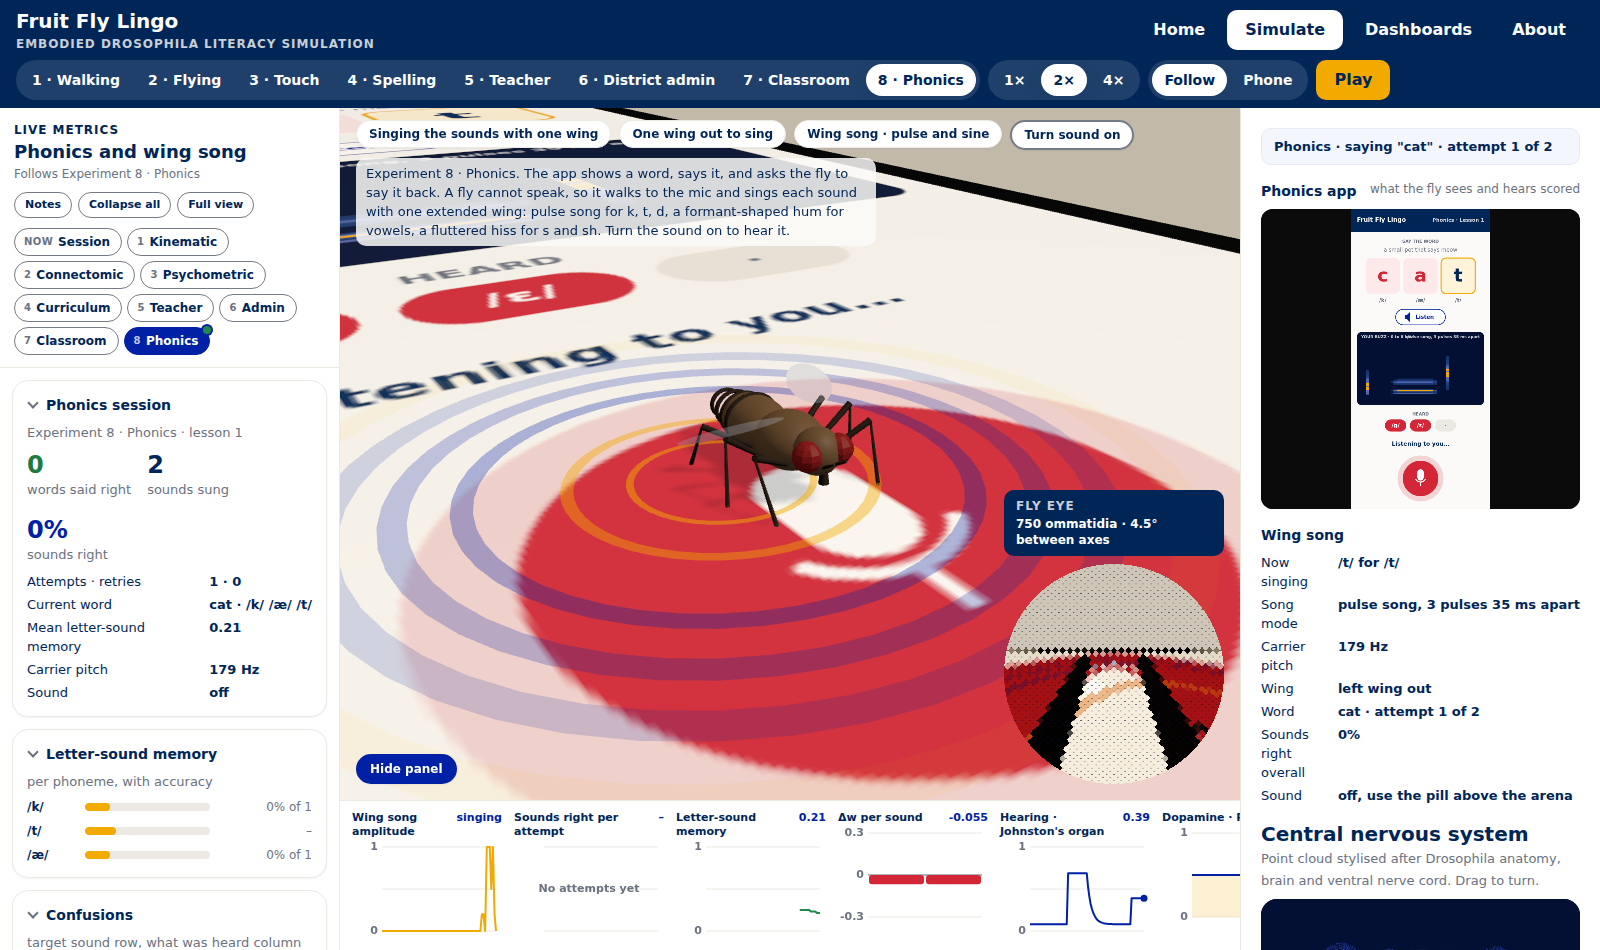
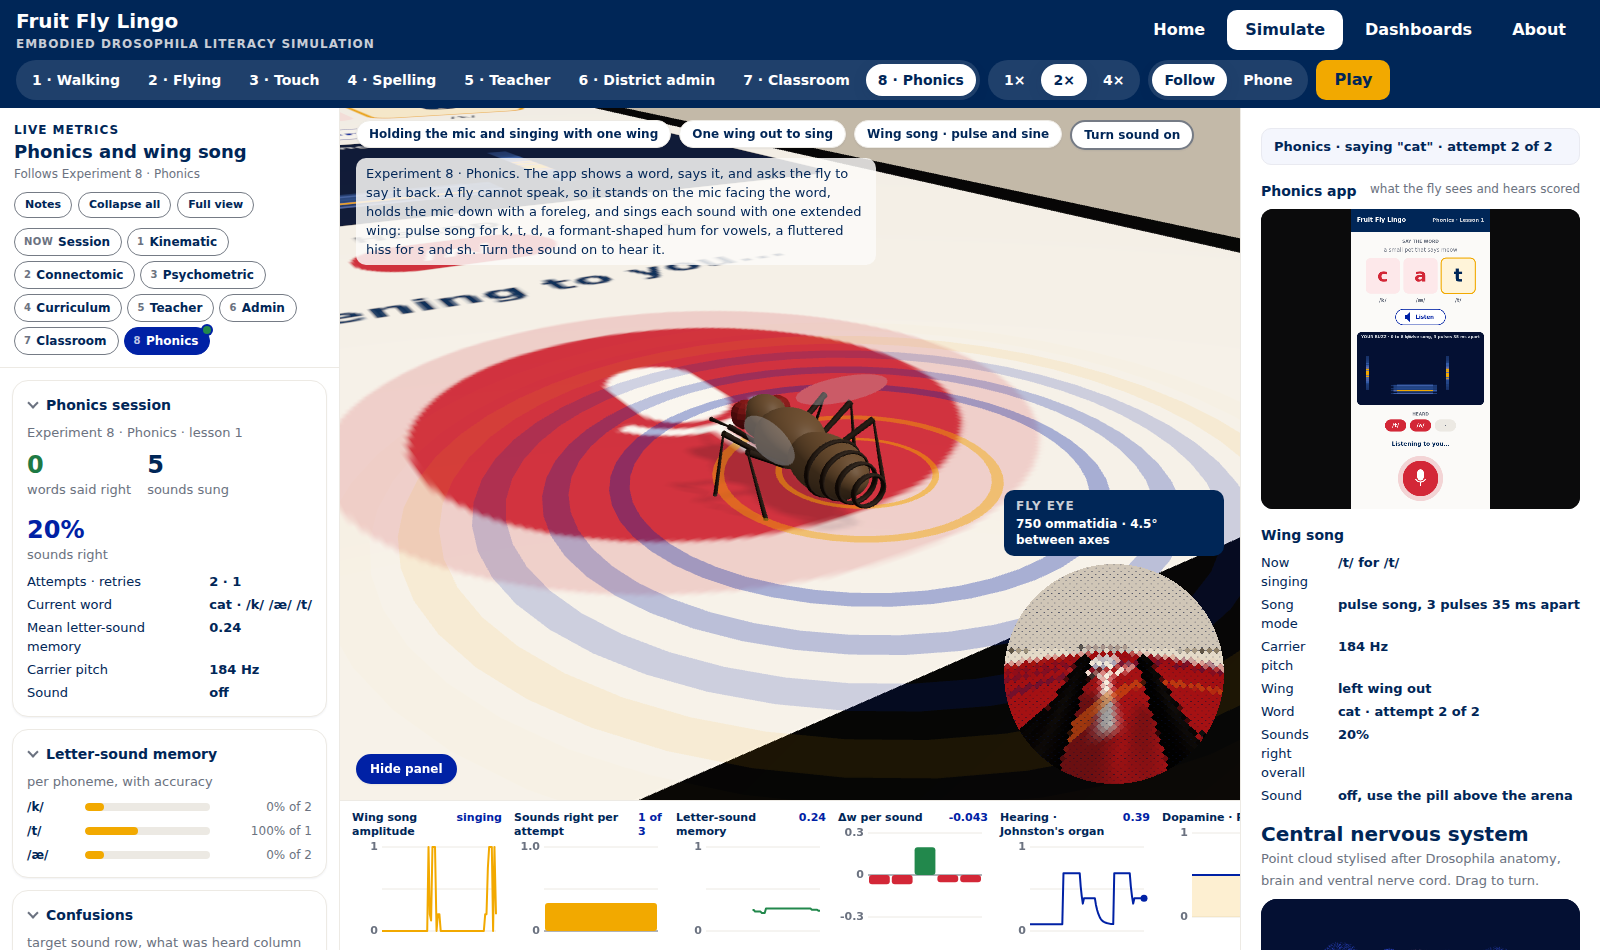
Phonics: the fly faces the word while it holds the mic
The fly now stands on the mic button facing up the screen, so the word and
its sounds stay in view. It presses the mic with the foreleg in front of it
and holds it down while it sings, like push-to-talk, and its head follows
the letter being sung. It stays on the mic between words instead of walking
back and forth.

diff --git a/index.html b/index.html
@@ -832,7 +832,7 @@ pre.mermaid svg{max-width:none;height:auto}
 
       <h3 class="sec">Phonics</h3>
       <div class="shots">
-        <figure><img loading="lazy" src="docs/screenshots/exp8-phonics.png" alt="Experiment 8: the fly at the mic of a phonics app, one wing extended as it sings"><figcaption><strong>8 · Phonics.</strong> The app says the word; the fly walks to the mic, taps it, and sings each sound with one extended wing while ripples spread from the wing and the spectrogram fills.</figcaption></figure>
+        <figure><img loading="lazy" src="docs/screenshots/exp8-phonics.png" alt="Experiment 8: the fly at the mic of a phonics app, one wing extended as it sings"><figcaption><strong>8 · Phonics.</strong> The app says the word; the fly stands on the mic facing the word, holds it down with a foreleg, and sings each sound with one extended wing while ripples spread from the wing and the spectrogram fills.</figcaption></figure>
         <figure><img loading="lazy" src="docs/screenshots/exp8-screen.png" alt="Experiment 8 phonics app: letter boxes with their sounds, the Listen button, a spectrogram of the buzz, the heard row and the mic button"><figcaption><strong>8 · The phonics app.</strong> Letter boxes with the sound each spells, the Listen button, a spectrogram of the fly's buzz, what the recogniser heard, and the mic.</figcaption></figure>
         <figure><img loading="lazy" src="docs/screenshots/dashboards-8.png" alt="Dashboard 8: phonics session counters, letter-sound memory, confusion matrix"><figcaption><strong>Dashboard 8 · Phonics and wing song.</strong> Words said right, sounds right, a letter-sound memory per phoneme, a confusion matrix of target against heard sounds, and the last attempt's spectrogram.</figcaption></figure>
       </div>
@@ -958,7 +958,7 @@ const EXP = {
   5: { name: 'Teacher', note: 'Experiment 5 · Teacher. A fly-sized laptop with a gradebook of the flies from Experiments 1 to 4. The screen is not touchable: the teacher stays on the trackpad and steers the cursor with one foreleg, presses the pad to click, and steps over to tap keys.', phys: 'Fly-sized laptop · trackpad only, no touch', phoneScale: 0.07, layout: 'grid', jitter: 0, camOffset: [-6, 5, 8.5], laptop: true },
   6: { name: 'District admin', note: 'Experiment 6 · District admin. The admin fly watches nine students on a 3 × 3 grid of webcam sessions. A vision overlay boxes each fly, its forelegs and its gaze; FlyAI flags suspected cheating and the admin steers the cursor to the tile and sends a check-in.', phys: 'Fly-sized laptop · trackpad only · vision overlay', phoneScale: 0.07, layout: 'grid', jitter: 0, camOffset: [-6, 5, 8.5], laptop: true },
   7: { name: 'Classroom', note: 'Experiment 7 · Classroom. Twenty-four students, twelve female and twelve male, at six round tables with a fly-sized tablet each, in mating season. Every fly has to finish twelve items. Rings show what each fly is doing; the vision overlay boxes every fly, its forelegs and its gaze. Click a fly to follow it and see its brain.', phys: '24 flies · 6 tables', phoneScale: 1, layout: 'grid', jitter: 0, camOffset: [-12, 10, 17], classroom: true },
-  8: { name: 'Phonics', note: 'Experiment 8 · Phonics. The app shows a word, says it, and asks the fly to say it back. A fly cannot speak, so it walks to the mic and sings each sound with one extended wing: pulse song for k, t, d, a formant-shaped hum for vowels, a fluttered hiss for s and sh. Turn the sound on to hear it.', phys: 'Wing song · pulse and sine', phoneScale: 1, layout: 'grid', jitter: 0, camOffset: [-13, 11, 20] },
+  8: { name: 'Phonics', note: 'Experiment 8 · Phonics. The app shows a word, says it, and asks the fly to say it back. A fly cannot speak, so it stands on the mic facing the word, holds the mic down with a foreleg, and sings each sound with one extended wing: pulse song for k, t, d, a formant-shaped hum for vowels, a fluttered hiss for s and sh. Turn the sound on to hear it.', phys: 'Wing song · pulse and sine', phoneScale: 1, layout: 'grid', jitter: 0, camOffset: [-13, 11, 20] },
 };
 let experiment = 1;
 
@@ -1309,7 +1309,7 @@ function redrawScreen(now) { drawScreen(now); screenTex.needsUpdate = true; }
 const agent = { phase: 'look', t: 0, target: null, standPos: null, tapLeg: null, tileIdx: -1, wordDone: false, hover: null, from: null, swipe: null, targetScroll: 0 };
 const PHASE_TEXT = { look: 'Looking at the screen', walk: 'Walking to a tile', tap: 'Pressing the glass', react: 'Reading the outcome', celebrate: 'Word complete',
   takeoff: 'Taking off', hover: 'Hovering, reading the meaning', dive: 'Diving to the answer', land: 'Landing', scroll: 'Swiping the answers into reach',
-  p_look: 'Reading the word', p_listen: 'Listening to the app', p_walk: 'Walking to the mic', p_tap: 'Tapping the mic', p_buzz: 'Singing the sounds with one wing', p_react: 'Hearing the score', p_celebrate: 'Word said right', p_back: 'Walking back to read',
+  p_look: 'Reading the word', p_listen: 'Listening to the app', p_walk: 'Settling on the mic', p_tap: 'Pressing the mic', p_buzz: 'Holding the mic and singing with one wing', p_react: 'Hearing the score', p_celebrate: 'Word said right', p_back: 'Settling on the mic',
   t_read: 'Reading the screen', t_fly: 'Flying', t_walk: 'Walking', t_arm: 'Steering the cursor with a foreleg', t_press: 'Clicking', t_dip: 'Pressing a key', t_done: 'All students graded', s_celebrate: 'Word spelled', a_watch: 'Watching the nine sessions' };
 function chooseTile() {
   const needed = cur().parts[game.placed];
@@ -1517,7 +1517,7 @@ function animateFly(dt) {
   const st = flyState;
   fly.position.copy(st.pos); fly.rotation.y = st.yaw; fly.updateMatrixWorld(true);
   head.rotation.y = st.headYaw;
-  const busyLeg = (agent.phase === 'tap' || agent.phase === 't_press' || agent.phase === 'p_tap') ? agent.tapLeg : ((agent.phase === 'scroll' && agent.swipe) || agent.phase === 't_arm' || ((experiment === 5 || experiment === 6) && !st.walking && !st.airborne && agent.phase !== 't_walk')) ? legs[1] : null;
+  const busyLeg = (agent.phase === 'tap' || agent.phase === 't_press' || agent.phase === 'p_tap' || agent.phase === 'p_buzz') ? agent.tapLeg : ((agent.phase === 'scroll' && agent.swipe) || agent.phase === 't_arm' || ((experiment === 5 || experiment === 6) && !st.walking && !st.airborne && agent.phase !== 't_walk')) ? legs[1] : null;
   let stepping = legs.filter(L => L.step).length;
   legs.forEach(L => {
     if (L === busyLeg) return;
@@ -2779,7 +2779,7 @@ const ripples = Array.from({ length: 8 }, () => { const m = new THREE.Mesh(new T
 function spawnRipple(kind) { const r = ripples.find(x => x.t >= 1); if (!r) return; r.t = 0; r.m.material.color.setHex(RING_KIND[kind]); r.m.visible = true; const p = fly.localToWorld(new THREE.Vector3(flyState.songSide * 1.6, 0, -0.8)); r.m.position.set(p.x, screenTopY() + 0.06, p.z); }
 function stepRipples(dt) { ripples.forEach(r => { if (r.t >= 1) { r.m.visible = false; return; } r.t = Math.min(1, r.t + dt / 0.9); const s = 1.5 + 12 * r.t; r.m.scale.set(s, s, s); r.m.material.opacity = 0.55 * (1 - r.t); }); }
 // ---------- the lesson ----------
-const P_READ = [195, 650], P_STAND = [195, 736], P_MIC = [195, 758];
+const P_READ = [195, 792], P_STAND = P_READ, P_MIC = [195, 756]; // the fly stands on the mic facing up the screen, so the word stays in view
 function phonicsStart() {
   const st = flyState; st.pos.copy(pxToWorld(...P_READ)); st.pos.y = SCREEN_Y; st.yaw = Math.PI; st.songExt = 0; st.songAmp = 0; plantFeet();
   phon.stage = 'read'; phon.plan = []; phon.heard = []; phon.cur = -1; game.feedback = `The fly reads "${phon.word.word}" and listens to the app say it.`; setPhase('p_look'); redrawScreen(performance.now()); renderTrial();
@@ -2817,7 +2817,7 @@ function stepPhonics(dt, now) {
     case 'p_look': st.headYaw = Math.sin(agent.t * 9) * 0.22; pulse(0, 0.9); pulse(1, 0.9); pulse(2, 0.5);
       if (agent.t > 1.3) { st.headYaw = 0; P.stage = 'listen'; speakModel(P.word.word); setPhase('p_listen'); } break;
     case 'p_listen': pulse(6, 0.9); pulse(7, 0.9); pulse(10, 0.4); redraw();
-      if (agent.t > 1.4) { P.stage = 'go'; agent.goal = pxToWorld(...P_STAND); agent.goalYaw = 0; setPhase('p_walk'); redrawScreen(now); } break;
+      if (agent.t > 1.4) { P.stage = 'go'; agent.goal = pxToWorld(...P_STAND); agent.goalYaw = Math.PI; setPhase('p_walk'); redrawScreen(now); } break;
     case 'p_walk': case 'p_back':
       if (walkToward(agent.goal, agent.goalYaw, dt)) {
         if (agent.phase === 'p_back') { phonicsStart(); break; }
@@ -2825,20 +2825,19 @@ function stepPhonics(dt, now) {
       } break;
     case 'p_tap': { const L = agent.tapLeg, T = agent.t, gy = agent.target.y; pulse(12, 0.95); pulse(11, 0.7);
       if (T < 0.28) { const k = T / 0.28; L.foot.lerpVectors(agent.tapFrom, agent.target, k); L.foot.y = gy + Math.sin(k * Math.PI) * 0.9; }
-      else if (T < 0.45) { L.foot.copy(agent.target); if (!agent.tapped) { agent.tapped = true; startAttempt(); st.songSide = Math.random() < 0.5 ? 1 : -1; redrawScreen(now); } }
-      else if (T < 0.75) { const k = (T - 0.45) / 0.3; L.foot.lerpVectors(agent.target, restWorld(L), k); L.foot.y = Math.max(gy, L.groundY) + Math.sin(k * Math.PI) * 0.7; }
-      else { L.foot.copy(restWorld(L)); setPhase('p_buzz'); }
+      else { L.foot.copy(agent.target); agent.tapped = true; startAttempt(); st.songSide = L === legs[0] ? 1 : -1; redrawScreen(now); setPhase('p_buzz'); } // press and hold, like push-to-talk
       break; }
     case 'p_buzz': {
       let acc = agent.t, i = 0; while (i < P.plan.length && acc > P.plan[i].dur + 0.07) { acc -= P.plan[i].dur + 0.07; i++; }
       if (i >= P.plan.length) { finishAttempt(); redrawScreen(now); renderTrial(); setPhase('p_react'); break; }
       if (i !== P.cur) { if (P.cur >= 0) resolveSound(P.cur); P.cur = i; buzzSound(P.plan[i].q, P.plan[i].dur, P.f0); renderTrial(); }
       const s = P.plan[i], gap = acc > s.dur, kind = PH[s.q].kind;
+      st.headYaw += ((P.plan.length > 1 ? (i / (P.plan.length - 1) - 0.5) * -0.5 : 0) - st.headYaw) * Math.min(1, dt * 6); // eyes follow the letter being sung
       st.songAmp = gap ? 0 : kind === 'stop' ? ((acc * 1000) % 35 < 12 && acc < 0.105 ? 1 : 0.2) : Math.min(1, acc / 0.04, (s.dur - acc) / 0.05);
       { const total = P.plan.reduce((a, q) => a + q.dur + 0.07, 0), x = Math.min(240, Math.round(agent.t / total * 240)); if (x > P.specX) { paintSpectrum(spectrumOf(gap ? null : s.q, acc, st.songAmp, P.f0), P.specX, x); P.specX = x; } }
       P.ringAcc += dt; if (!gap && P.ringAcc > 0.12) { P.ringAcc = 0; spawnRipple(kind); }
       pulse(13, 0.4 + 0.6 * st.songAmp); pulse(11, 0.75); pulse(2, 0.6); pulse(6, 0.5); pulse(7, 0.5); redraw(); break; }
-    case 'p_react': if (agent.t > 1.6) { const done = P.heard.length && P.plan.every(s => s.p === s.q);
+    case 'p_react': st.headYaw *= 0.9; if (agent.t > 1.6) { const done = P.heard.length && P.plan.every(s => s.p === s.q);
         if (done) setPhase('p_celebrate'); else if (P.attempt < 2) { P.stage = 'listen'; speakModel(P.word.word); setPhase('p_listen'); redrawScreen(now); }
         else { nextPhonicsWord(); agent.goal = pxToWorld(...P_READ); agent.goalYaw = Math.PI; setPhase('p_back'); redrawScreen(now); renderTrial(); } } break;
     case 'p_celebrate': st.buzz = Math.max(st.buzz, 0.3); pulse(3, 0.9); pulse(4, 0.9);

diff --git a/CLAUDE.md b/CLAUDE.md
@@ -11,7 +11,7 @@
 Fruit Fly Lingo is the interaction layer of the Embodied Drosophila Literacy Simulation (EDLS). It is a single static page (`index.html`, three.js loaded from jsdelivr, no build step) deployed on Vercel from this repository, `jayrosen-design/fly-lingo`, branch `main`.
 
 - A procedural fruit fly with six IK legs, wings and a head-mounted compound-eye camera learns English morphology (prefix + root + suffix) on the screens people learn on.
-- Eight experiments share one brain model and curriculum: 1 Walking (phone on a table), 2 Flying (climb to read, dive to answer, paths and landing heatmap), 3 Touch (fly-sized phone, swipe and tap), 4 Spelling (real-size laptop, fly key to key), 5 Teacher (fly-sized laptop, trackpad only, grades Flies A to D from a gradebook fed by the other experiments' real trials), 6 District admin (3 × 3 webcam grid of student simulations, vision overlay boxing flies, forelegs and gaze, FlyAI rule-based flags, seeded cheating scored for precision), 7 Classroom (24 student flies, 12 female and 12 male, at six round tables with a fly-sized tablet each in mating season: courtship with one-wing song, female rejection by ignoring, wing flick and kick or decamping, courtship conditioning lowering male drive, rival wing threats and lunges, grooming, glancing at neighbours, co-action; every fly must finish twelve items; click a fly to follow it; no fly-eye inset here, instead an optional vision overlay boxes every fly, its forelegs and its gaze with eye-contact badges and trails), 8 Phonics (phonics app on the phone; the fly listens, walks to the mic and sings each sound with one extended wing: pulse song for stops, formant-shaped hum for vowels, fluttered hiss for fricatives; Web Audio synthesis behind a sound toggle; letter-sound memory and a confusion matrix).
+- Eight experiments share one brain model and curriculum: 1 Walking (phone on a table), 2 Flying (climb to read, dive to answer, paths and landing heatmap), 3 Touch (fly-sized phone, swipe and tap), 4 Spelling (real-size laptop, fly key to key), 5 Teacher (fly-sized laptop, trackpad only, grades Flies A to D from a gradebook fed by the other experiments' real trials), 6 District admin (3 × 3 webcam grid of student simulations, vision overlay boxing flies, forelegs and gaze, FlyAI rule-based flags, seeded cheating scored for precision), 7 Classroom (24 student flies, 12 female and 12 male, at six round tables with a fly-sized tablet each in mating season: courtship with one-wing song, female rejection by ignoring, wing flick and kick or decamping, courtship conditioning lowering male drive, rival wing threats and lunges, grooming, glancing at neighbours, co-action; every fly must finish twelve items; click a fly to follow it; no fly-eye inset here, instead an optional vision overlay boxes every fly, its forelegs and its gaze with eye-contact badges and trails), 8 Phonics (phonics app on the phone; the fly stands on the mic facing the word, holds it down with a foreleg and sings each sound with one extended wing: pulse song for stops, formant-shaped hum for vowels, fluttered hiss for fricatives; Web Audio synthesis behind a sound toggle; letter-sound memory and a confusion matrix).
 - In the Simulate view the left dashboard panel, the right scenario panel and the bottom six-chart strip all switch per experiment (DOCK_FOR, data-rp sections and scenarioCard, STRIPS in index.html); teacher and admin show their laptop screen and work queue instead of the brain.
 - A stylised 55,000-point nervous system lights up by region; the memory rule is Δw = η(R − V), η = 0.22; eight dashboards (kinematic, connectomic, psychometric with G-DINA, Half-Life Regression and a Rasch Wright map, curriculum with a toy mLSTM and Decision Transformer divergence, teacher navigation with Fitts' law, district proctoring, classroom social dynamics, phonics and wing song) run on live telemetry and also dock beside the arena.
 - Views: Home (default, experiment cards), Simulate, Dashboards, About (research library with the PDFs under `docs/research/`, all 187 cited sources, and the README's Mermaid architecture diagrams).

diff --git a/README.md b/README.md
@@ -100,7 +100,7 @@ Switch with the control at the top left of the header. All three share the same 
 | 4 · Spelling | Real-size laptop with a spelling activity | Hovers in front of the screen | Flies key to key and presses each letter with its body | Letter answers into the same trials, memory and dashboards |
 | 5 · Teacher | Fly-sized laptop with a gradebook, trackpad only, no touch | Reads from the trackpad | Steers the cursor with one foreleg on the pad, presses the pad to click, steps over to tap keys | Clicks, misclicks, keystrokes, Fitts' law, cursor heatmap, grading error |
 | 6 · District admin | Fly-sized laptop with nine webcam sessions, a vision overlay and FlyAI | Watches the grid | Steers to a flagged tile, opens it, clicks the check-in button | Flags scored against seeded cheating, precision, response time, attention, detections |
-| 8 · Phonics | Table-sized phone running a phonics app with a mic | Reads the word, listens to the app say it | Walks to the mic, taps it, and sings each sound with one wing | Sounds right per attempt, letter-sound memory, confusion matrix, spectrogram |
+| 8 · Phonics | Table-sized phone running a phonics app with a mic | Reads the word, listens to the app say it | Stands on the mic facing the word, holds it down with a foreleg, and sings each sound with one wing | Sounds right per attempt, letter-sound memory, confusion matrix, spectrogram |
 | 7 · Classroom | 24 fly-sized tablets on six round tables | Head sweeps over its own tablet, glances at a neighbour's | Taps one of four tiles with a foreleg, twelve items each, between courtship, rejection, rivalry and grooming | Time budget by sex, courtship network, rejections, male courtship drive, lesson completion time in and out of season |
 
 ### Spelling
@@ -137,7 +137,7 @@ Dashboard 6, District proctoring, scores the flags against the hidden seeding: c
 
 ### Phonics
 
-Experiment 8 is a phonics lesson on the table-sized phone. The app shows a word split into letter boxes with the sound each spells (c a t, /k/ /æ/ /t/), a hint, a Listen button, a spectrogram panel, a row for what it heard, and a mic button. The fly reads the word and listens while the app says it; with sound on, the model word uses the browser's speech voice where one exists. Then the fly walks to the mic, taps it with a foreleg, and says the word back.
+Experiment 8 is a phonics lesson on the table-sized phone. The app shows a word split into letter boxes with the sound each spells (c a t, /k/ /æ/ /t/), a hint, a Listen button, a spectrogram panel, a row for what it heard, and a mic button. The fly reads the word and listens while the app says it; with sound on, the model word uses the browser's speech voice where one exists. The fly stands on the mic button facing up the screen, so the word stays in view while it answers. It presses the mic with a foreleg, holds it down like push-to-talk, and says the word back, its eyes moving across the letter boxes as it goes.
 
 A fly cannot speak, so it sings. Male Drosophila make their courtship song by extending one wing and vibrating it: a pulse song with pulses about 35 ms apart and a sine song humming near 150 Hz. The simulation borrows that. Each sound is synthesised with Web Audio and drawn on the spectrogram from the same model:
 
